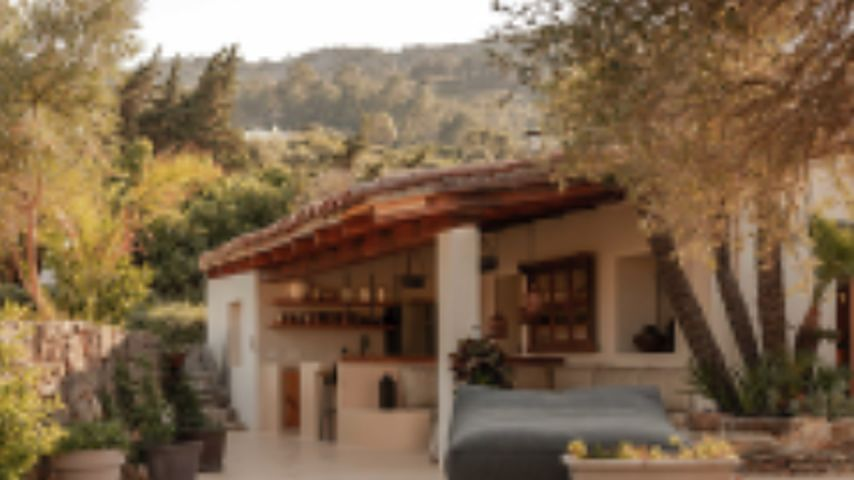
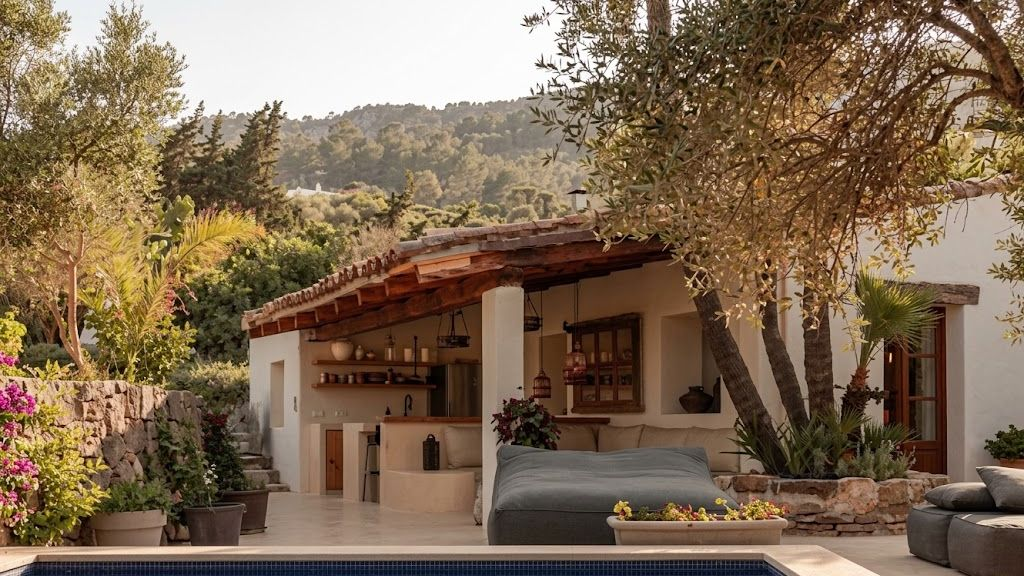
Add files via upload

diff --git a/styles.css b/styles.css
@@ -263,6 +263,8 @@ header.site.is-scrolled{box-shadow:0 8px 24px -20px rgba(var(--navy-rgb),.35);}
 .cadence-card .card-media img{width:100%; height:100%; object-fit:cover; display:block; transition:transform .3s ease;}
 .cadence-card:hover .card-media img{transform:scale(1.03);}
 .cadence-card .card-content{display:flex; flex-direction:column; flex:1; padding:28px 24px 32px;}
+/* Card 3 (Catalonia masia): porch, poolside terrace and greenery in frame */
+.cadence-card:nth-child(3) .card-media img{object-position:center 60%;}
 /* Card 4 (Costa Brava offsite): keep the table, the sailboat canvas and the room in frame */
 .cadence-card:nth-child(4) .card-media img{object-position:center 35%;}
 .cadence-card--featured{padding:32px 28px;}

diff --git a/index.html b/index.html
@@ -294,7 +294,7 @@
           <div class="card-media">
             <picture>
               <source srcset="assets/photos/cadence-immersion-patio.webp" type="image/webp">
-              <img src="assets/photos/cadence-immersion-patio.jpg" alt="Secluded Mediterranean finca courtyard for the 24-hour executive immersion" width="854" height="480" loading="lazy" decoding="async">
+              <img src="assets/photos/cadence-immersion-patio.jpg" alt="Secluded Catalonia masia patio and pool for the 24-hour executive immersion retreat" width="1024" height="576" loading="lazy" decoding="async">
             </picture>
           </div>
           <div class="card-content">

diff --git a/README.md b/README.md
@@ -55,16 +55,15 @@ Photo source files and their web names:
 | IMG_1814.jpeg | round-alpine-sanctuary | Sanctuary & Headspace · Secluded Nature Environments |
 | The Round monthly meeting 1.jpeg | cadence-peer-board | Card 1: cropped to 16:9, desk nameplates blurred |
 | Sven Mulfinger Listening.png | cadence-sparring-barcelona | Card 2: cropped to 16:9 |
-| Finca collage (bottom-right tile) | cadence-immersion-patio | Card 3: tile extracted, upscaled to 854 px |
+| Masia cataluña.jpeg (full resolution) | cadence-immersion-patio | Card 3: cropped to 16:9 at 60% from the top, `object-position: center 60%` |
 | Offsite meeting Costa Brava.jpeg | cadence-offsite-costa-brava | Card 4: cropped to 16:9 at 35% from the top, `object-position: center 35%` |
 
-Source files were renamed (no spaces or accents) and resized for the web (1024 px wide, or 854 px for the finca tile).
+Source files were renamed (no spaces or accents) and resized for the web (1024 px wide).
 
-The finca courtyard image comes from a small collage and is upscaled, so it looks soft at large sizes. Replace it with the original high-resolution photo when available, keeping the same file name.
 
 ### Cadence card media rationale
 
-Cards 1 to 4 carry a flush 16:9 photo above a hairline divider, anchoring each format in a real room or retreat setting: the boardroom, the 1:1 conversation, the finca courtyard and the Costa Brava offsite working session. Card 5, the Member Accountability Ledger, carries no photo and stays on the navy radial: it is the digital execution layer, and the contrast marks the shift from rooms to record. In place of a photo it shows an illustrative ledger panel (two anonymised entries with context, action, due date, sparring partner and status), a quote from The Round Charter, and two actions: "View The Round Charter (Schedule 2)" opens the Charter drawer, "Member Sign-In" opens the portal. The ledger entries are static illustrations, not live data.
+Cards 1 to 4 carry a flush 16:9 photo above a hairline divider, anchoring each format in a real room or retreat setting: the boardroom, the 1:1 conversation, the Catalonia masia terrace and the Costa Brava offsite working session. Card 5, the Member Accountability Ledger, carries no photo and stays on the navy radial: it is the digital execution layer, and the contrast marks the shift from rooms to record. In place of a photo it shows an illustrative ledger panel (two anonymised entries with context, action, due date, sparring partner and status), a quote from The Round Charter, and two actions: "View The Round Charter (Schedule 2)" opens the Charter drawer, "Member Sign-In" opens the portal. The ledger entries are static illustrations, not live data.
 
 ---
 
@@ -263,7 +262,7 @@ Netlify detects the form from the static HTML on each deploy. Set up email notif
 
 ## 9. Open items
 
-- Replace the upscaled finca image (`cadence-immersion-patio`) with a high-resolution original, and confirm usage rights for it.
+- Confirm usage rights for the masia photo (`cadence-immersion-patio`).
 - Confirm that everyone recognisable in `cadence-offsite-costa-brava` has agreed to appear on the site.
 - Confirm that everyone recognisable in `cadence-peer-board` has agreed to appear on the site.
 - Replace `LEDGER` sample rows with real (anonymised) entries once the cohort starts.
@@ -277,6 +276,7 @@ All dates 2026.
 
 | Date | Change |
 |---|---|
+| 9 Oct | Updated Card 03 media to high-resolution Catalonia masia terrace photograph (`cadence-immersion-patio`). Alt text updated; `object-position: center 60%`. |
 | 9 Oct | Updated Hero headline and subhead to authoritative positioning ('Built for those who carry the ultimate call'). Synchronized OpenGraph and meta descriptions. JSON-LD service description updated. |
 | 9 Oct | Card 05 redesigned: operating-compact pill, new subtitle, illustrative ledger telemetry panel (two anonymised entries with status pills), Charter quote, and two actions (Charter, Member Sign-In). New The Round Charter drawer with the 11 points of Schedule 2 and a GDPR note. Charter link added to the footer. |
 | 9 Oct | Refactored #terms to Option B: transitioned subscription fee to candidate-review disclosure to enhance executive exclusivity and alignment with high-touch advisory positioning. New eyebrow, lead and four governance cards; FAQ 9 rewritten in HTML and JSON-LD; numeric price removed from the JSON-LD offer; `.term-value--text` enlarged to 1.35rem. |
